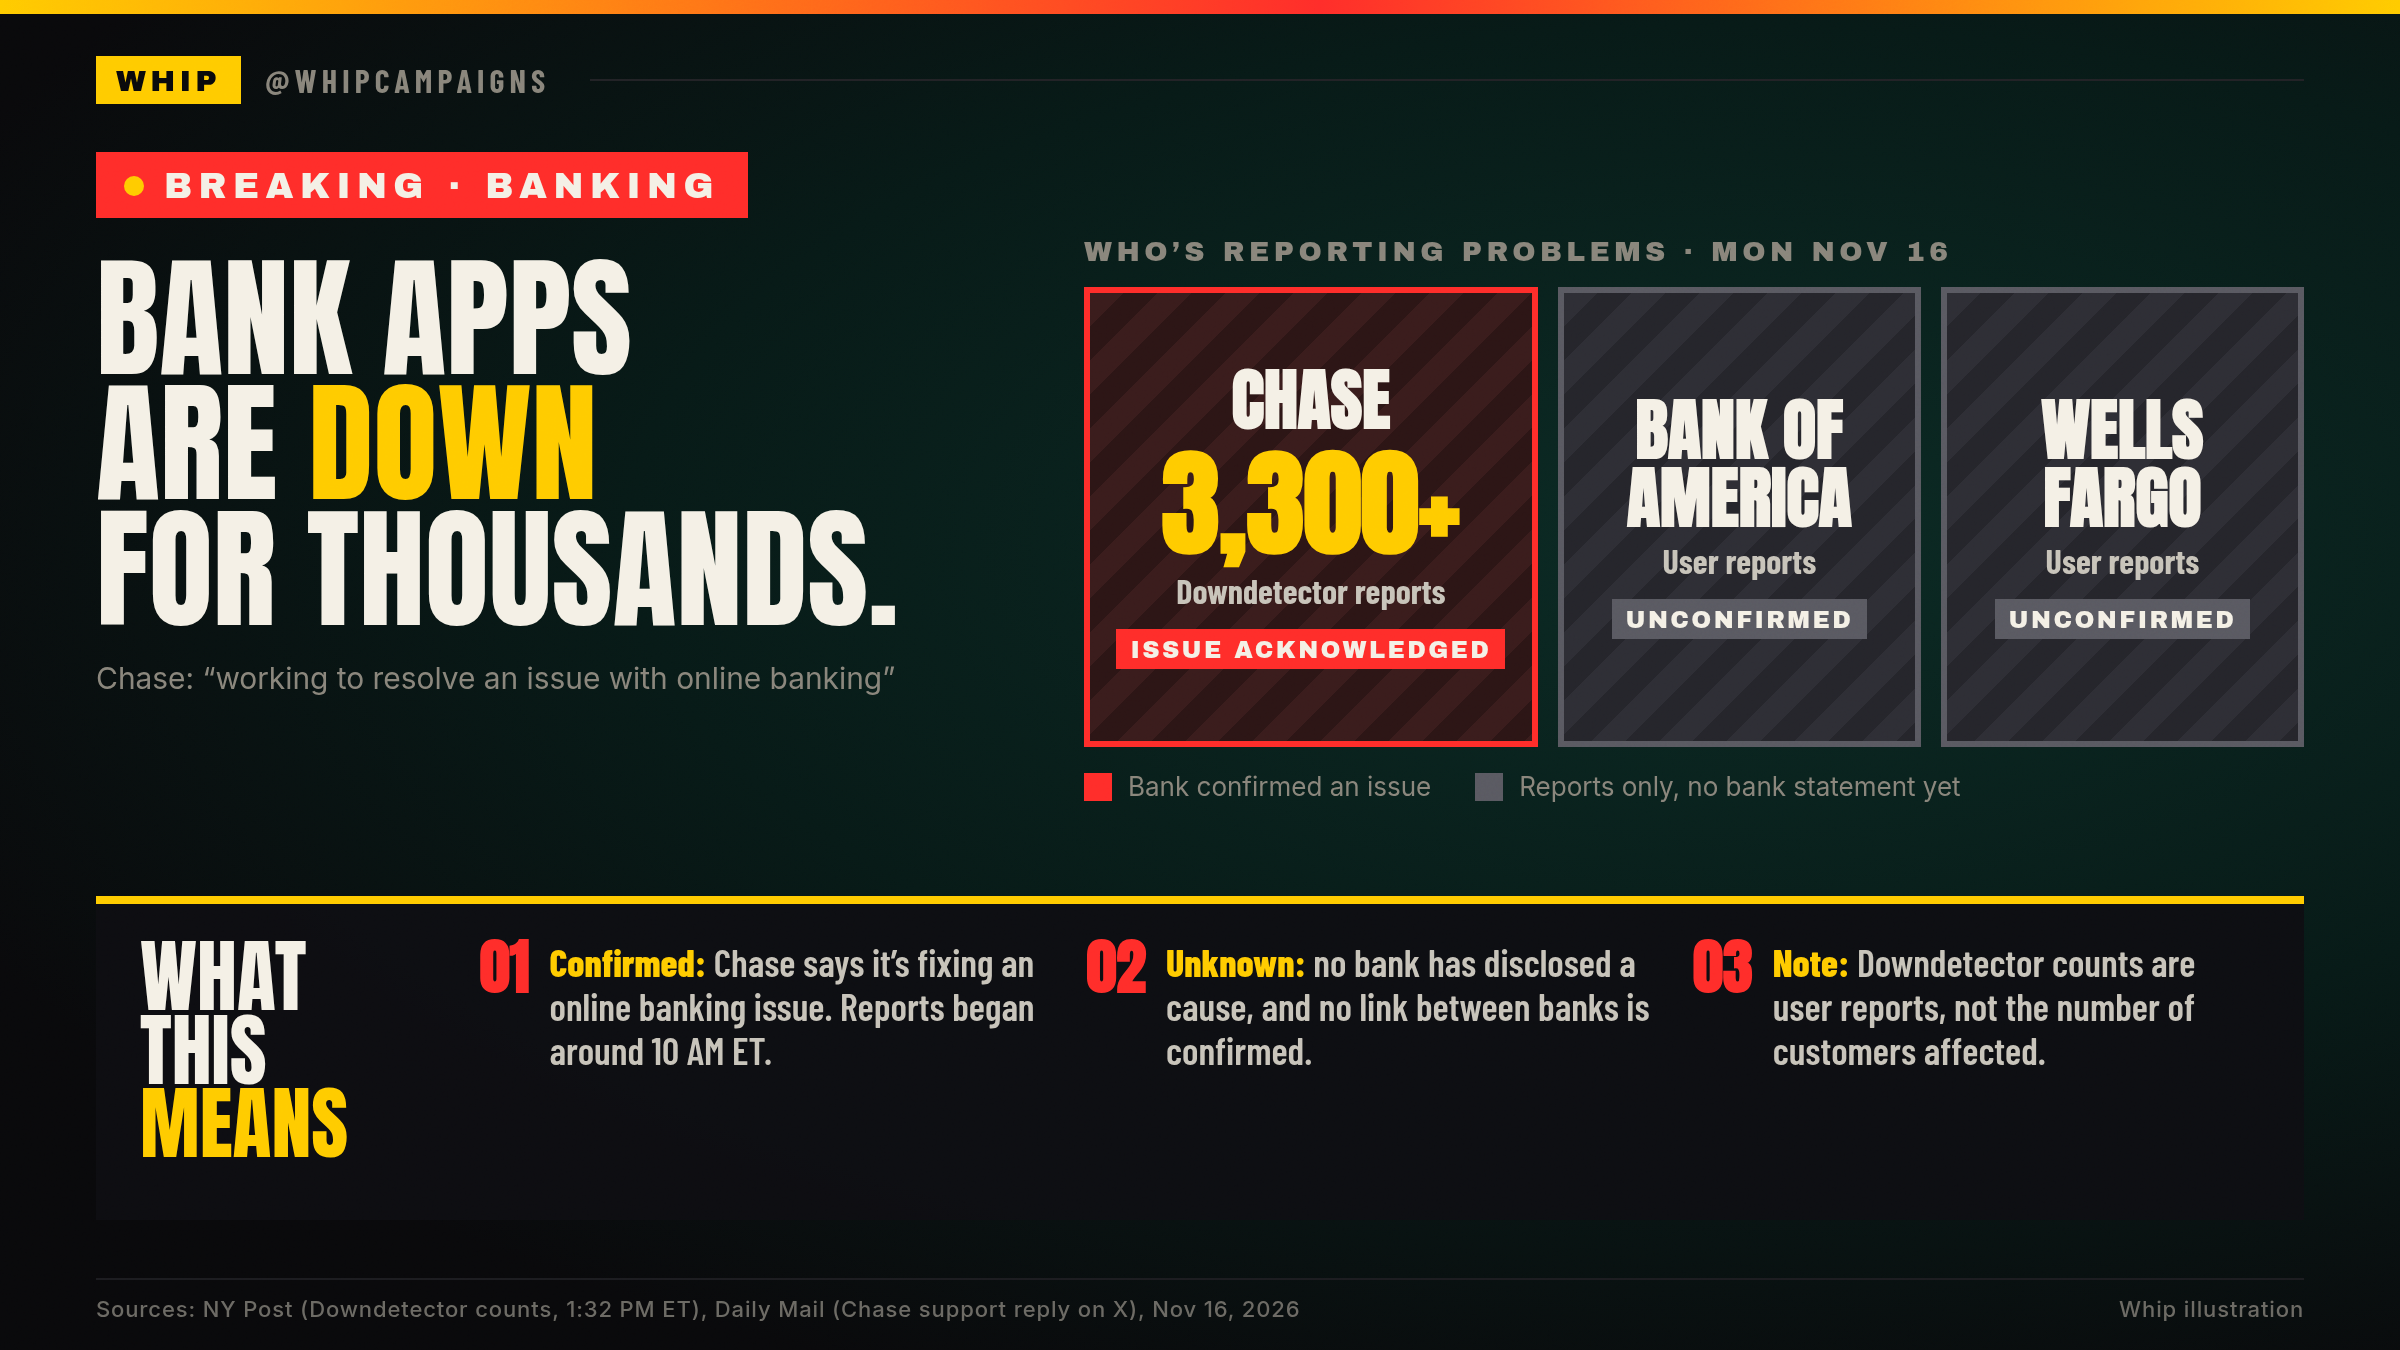
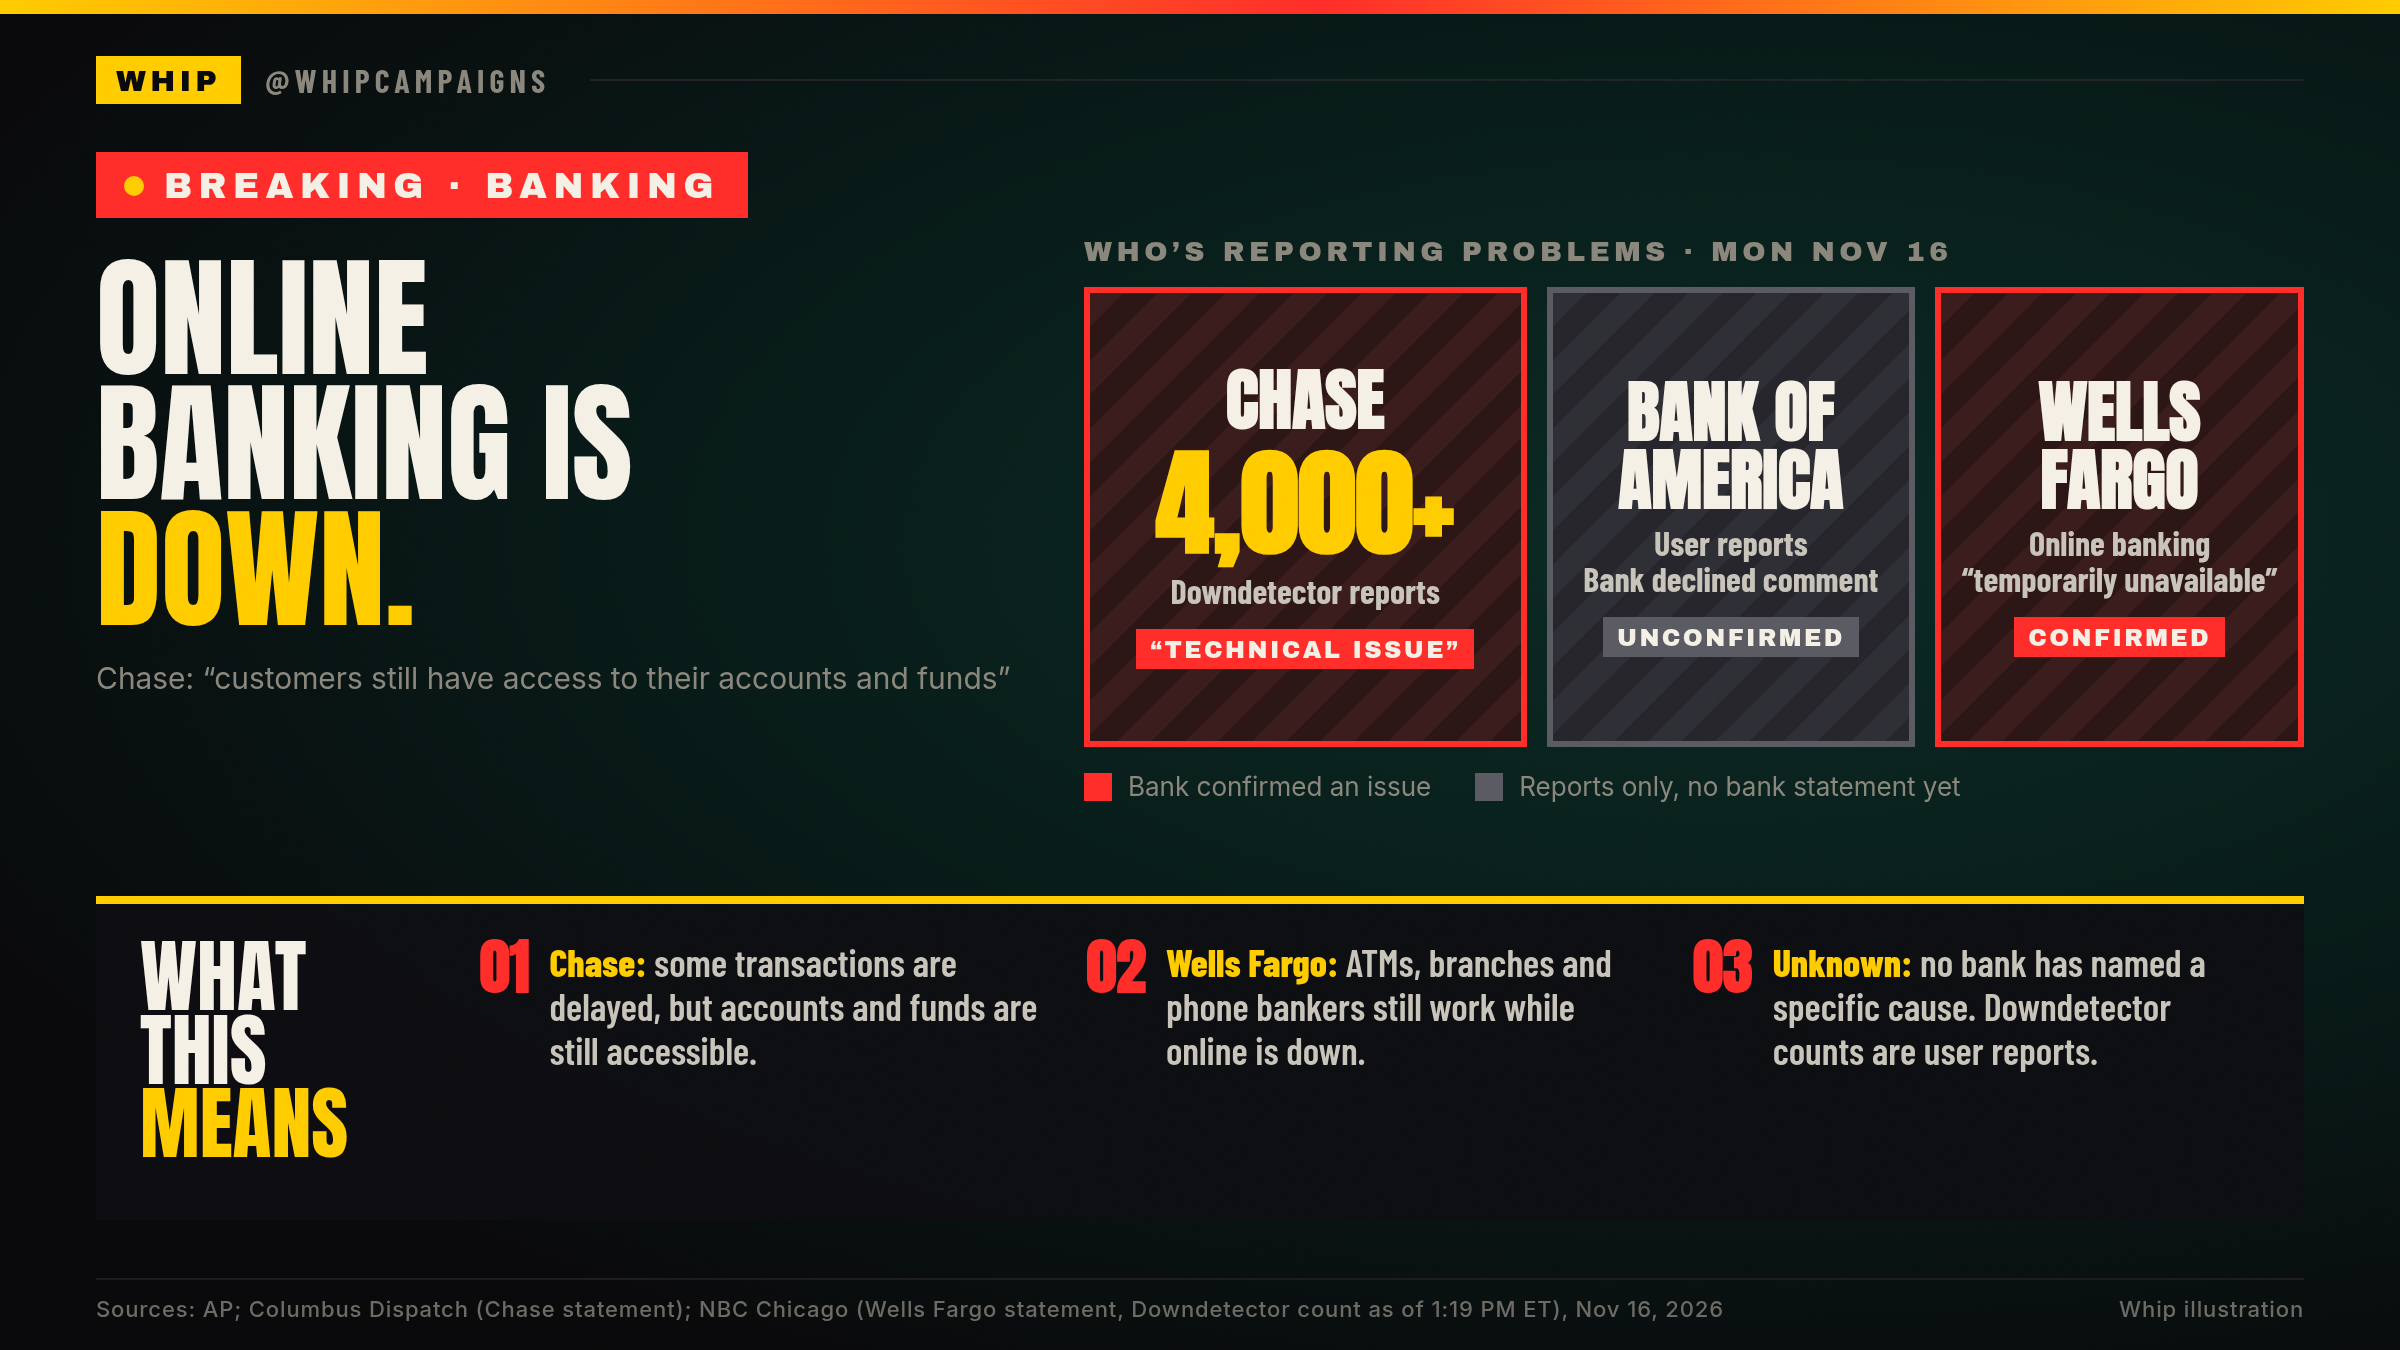
Bank outage card: Chase & Wells Fargo statements, quote AP

diff --git a/2026-11-16-bank-outage/tweet.md b/2026-11-16-bank-outage/tweet.md
@@ -1,7 +1,7 @@
-Quote of @unusual_whales 2122399803997143458 (draft, not posted)
+Quote of @AP 2122402906796159199 (draft, not posted; supersedes the 1:44 PM @unusual_whales draft)
 
-BREAKING: Chase says it's working to fix an online banking issue. Users also report problems at Bank of America and Wells Fargo.
+BREAKING: Online banking is down at several major U.S. banks (AP).
 
-Downdetector logged 3,300+ Chase outage reports (NY Post). No bank has disclosed a cause.
+Chase calls it a technical issue: some transactions delayed, but accounts and funds still accessible. Wells Fargo confirms online banking is temporarily unavailable.
 
 Should banks have to disclose what caused a major outage?
